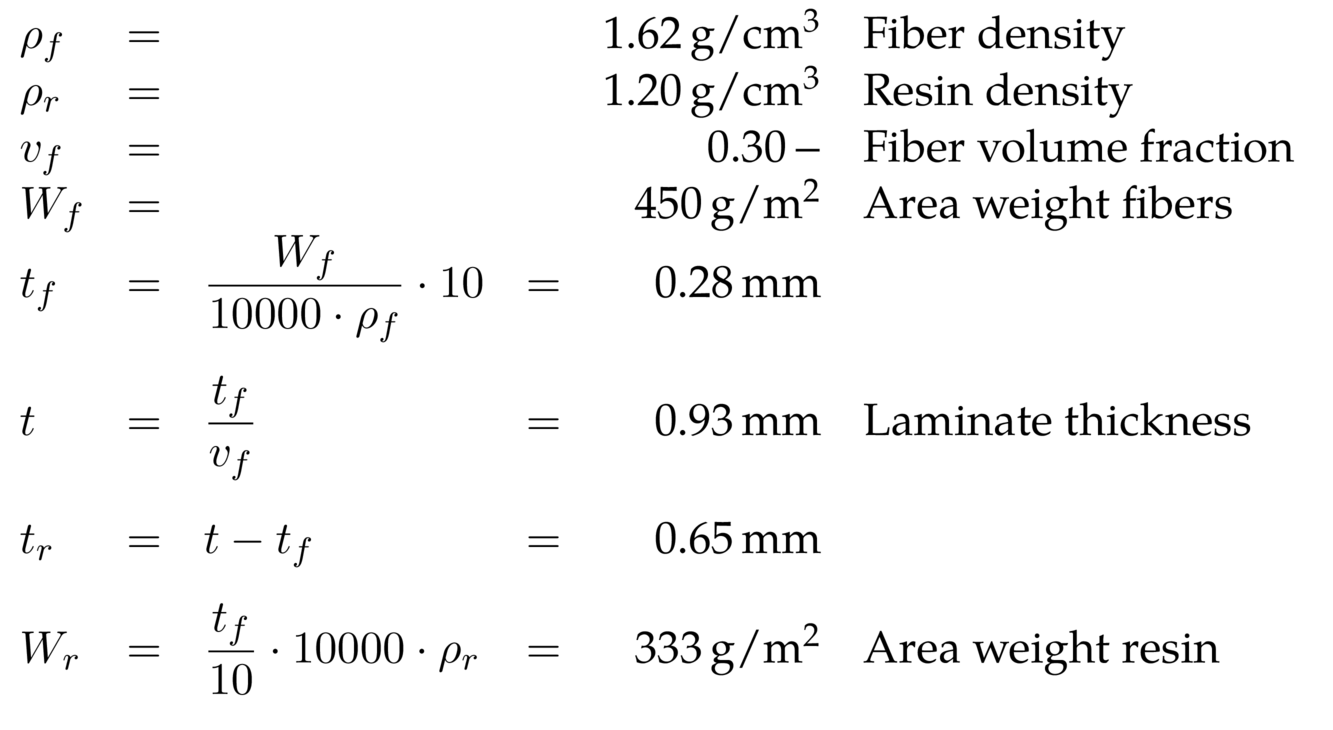
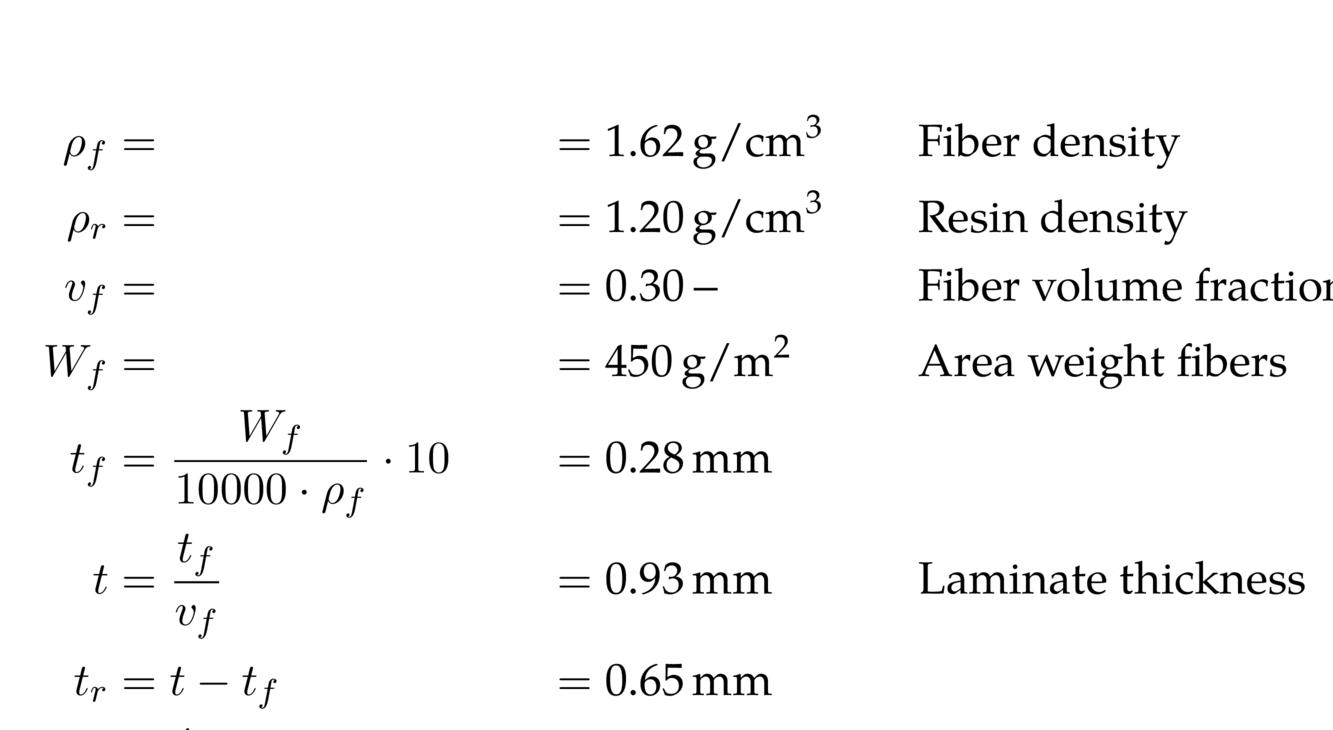
Use align* environment from amsmath

diff --git a/texcalc.py b/texcalc.py
@@ -3,7 +3,7 @@
 #
 # Copyright © 2014,2015 R.F. Smith <rsmith@xs4all.nl>. All rights reserved.
 # Created: 2014-05-04 11:28:35 +0200
-# Last modified: 2015-09-28 20:43:58 +0200
+# Last modified: 2015-10-11 20:12:16 +0200
 #
 # Redistribution and use in source and binary forms, with or without
 # modification, are permitted provided that the following conditions
@@ -29,7 +29,7 @@
 Note that this module uses both eval() and exec().
 It should therefore not be used with untrusted input."""
 
-__version__ = '0.9.3'
+__version__ = '0.10.0'
 
 import ast
 import math
@@ -82,8 +82,8 @@ class Calculation(object):
     """Class to contain a set of coherent calculations."""
 
     def __init__(self):
-        self.prefix = [r'\hspace{-\arraycolsep}{$\begin{array}{lclcrl}']
-        self.suffix = [r'\end{array}$}\hfill']
+        self.prefix = [r'\begin{align*}']
+        self.suffix = [r'\end{align*}']
         self.lines = []
 
     def add(self, name, expr, unit=None, comment=None, fmt=".2f"):
@@ -102,25 +102,24 @@ class Calculation(object):
         value = eval(expr, _globals, _locals)
         exec('{} = {}'.format(name, value), _locals)
         n = ast.parse(expr)
-        el = ['{} & = &'.format(_texify(name))]
+        el = ['{} &='.format(_texify(name))]
         if type(n.body[0].value).__name__ == 'Num':
-            el.append('& &')
+            el.append('&&=')
         else:
             v = _LatexVisitor()
             v.visit(n)
-            el.append('\\displaystyle {} & = &'.format(v.astex()))
+            el.append('\\displaystyle {} &&='.format(v.astex()))
             extraline = True
         if unit:
-            val = ''.join(['\\mbox{{\\SI{{{:', fmt, '}}}', '{{', unit, '}}}}'])
+            val = ''.join(['\\text{{\\SI{{{:', fmt, '}}}', '{{', unit, '}}}}'])
         else:
-            val = ''.join(['\\mbox{{\\num{{{:', fmt, '}}}}}'])
+            val = ''.join(['\\text{{\\num{{{:', fmt, '}}}}}'])
         el.append(val.format(value))
         if comment:
-            el += ['&', '\\mbox{{{}}}'.format(str(comment)), r'\\']
+            el += ['&&', '\\text{{{}}}'.format(str(comment)),
+                   r'\displaybreak[0]\\']
         else:
-            el.append(r'\\')
-        if extraline:
-            el.append(r'\\[-0.5em]')
+            el.append(r'\displaybreak[0]\\')
         self.lines.append(' '.join(el))
 
     def __str__(self):

diff --git a/examples/driver.tex b/examples/driver.tex
@@ -3,7 +3,7 @@
 %
 % Author: R.F. Smith <rsmith@xs4all.nl>
 % Created: 2015-09-28 20:49:00 +0200
-% Last modified: 2015-09-28 21:39:09 +0200
+% Last modified: 2015-10-11 19:45:01 +0200
 %
 % To the extent possible under law, R.F. Smith has waived all copyright and
 % related or neighboring rights to ex1.tex. This work is published
@@ -14,6 +14,7 @@
 \usepackage{booktabs}
 \usepackage{tgpagella}
 \usepackage{siunitx}
+\usepackage{amsmath}
 \sisetup{detect-all=true, mode=text, group-digits=true,
     input-decimal-markers={.,}, exponent-product=\times,
     separate-uncertainty=true, load-configurations=abbreviations}
